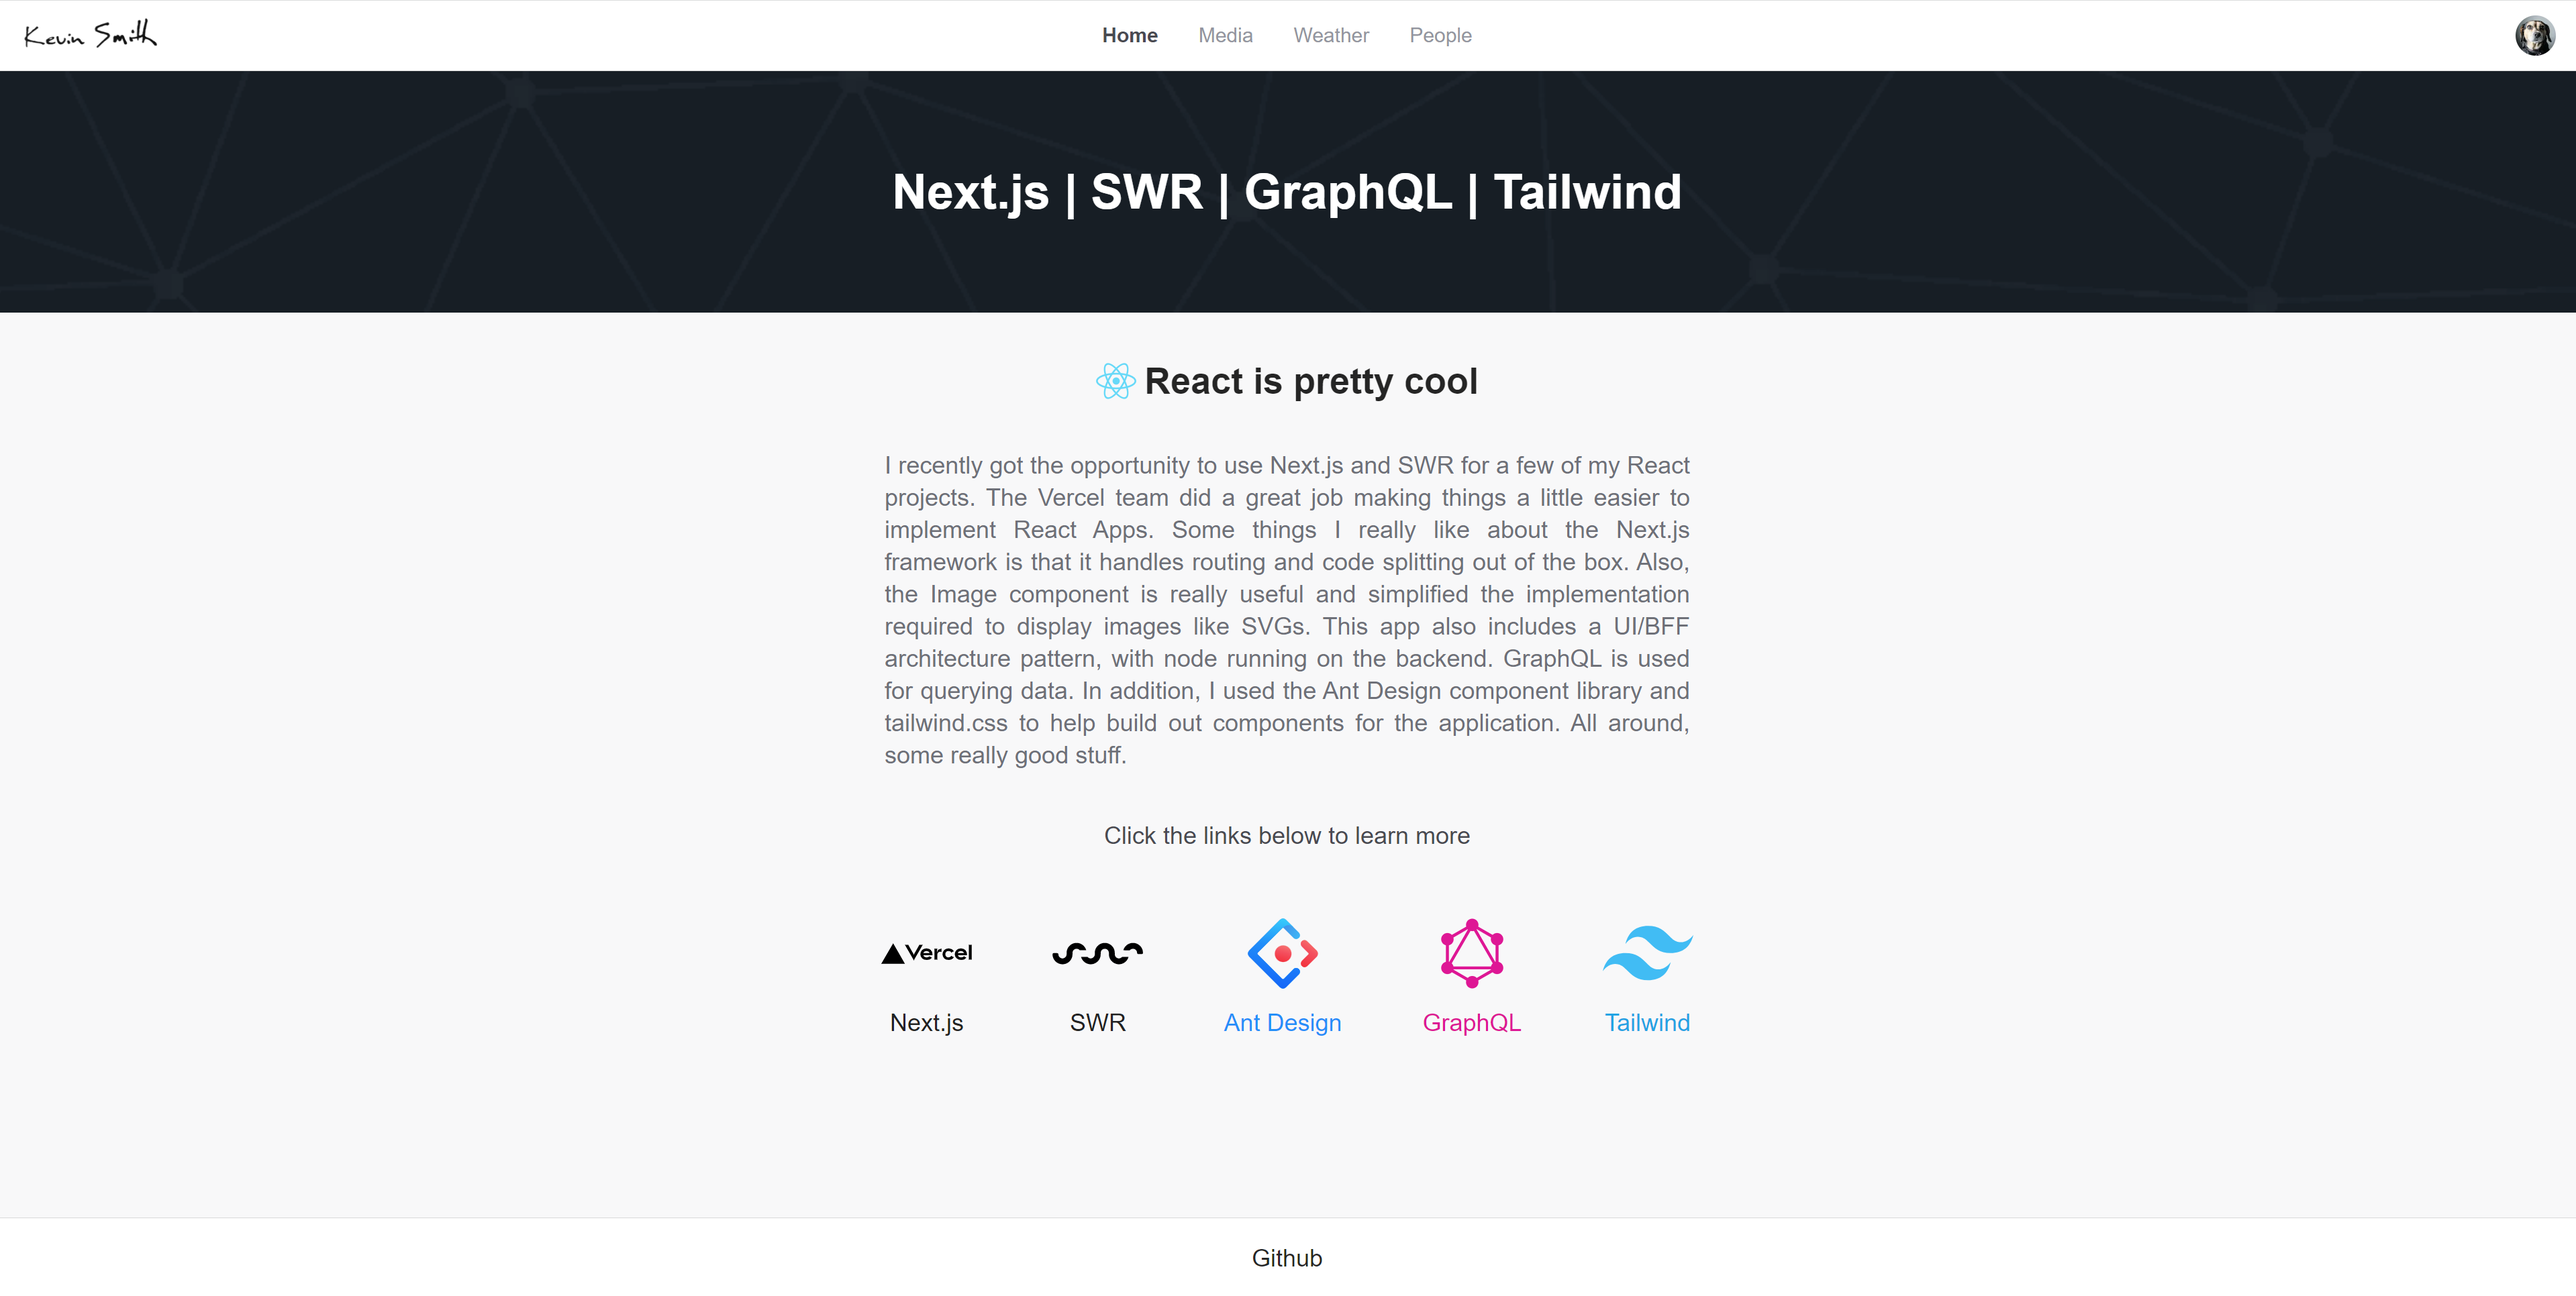
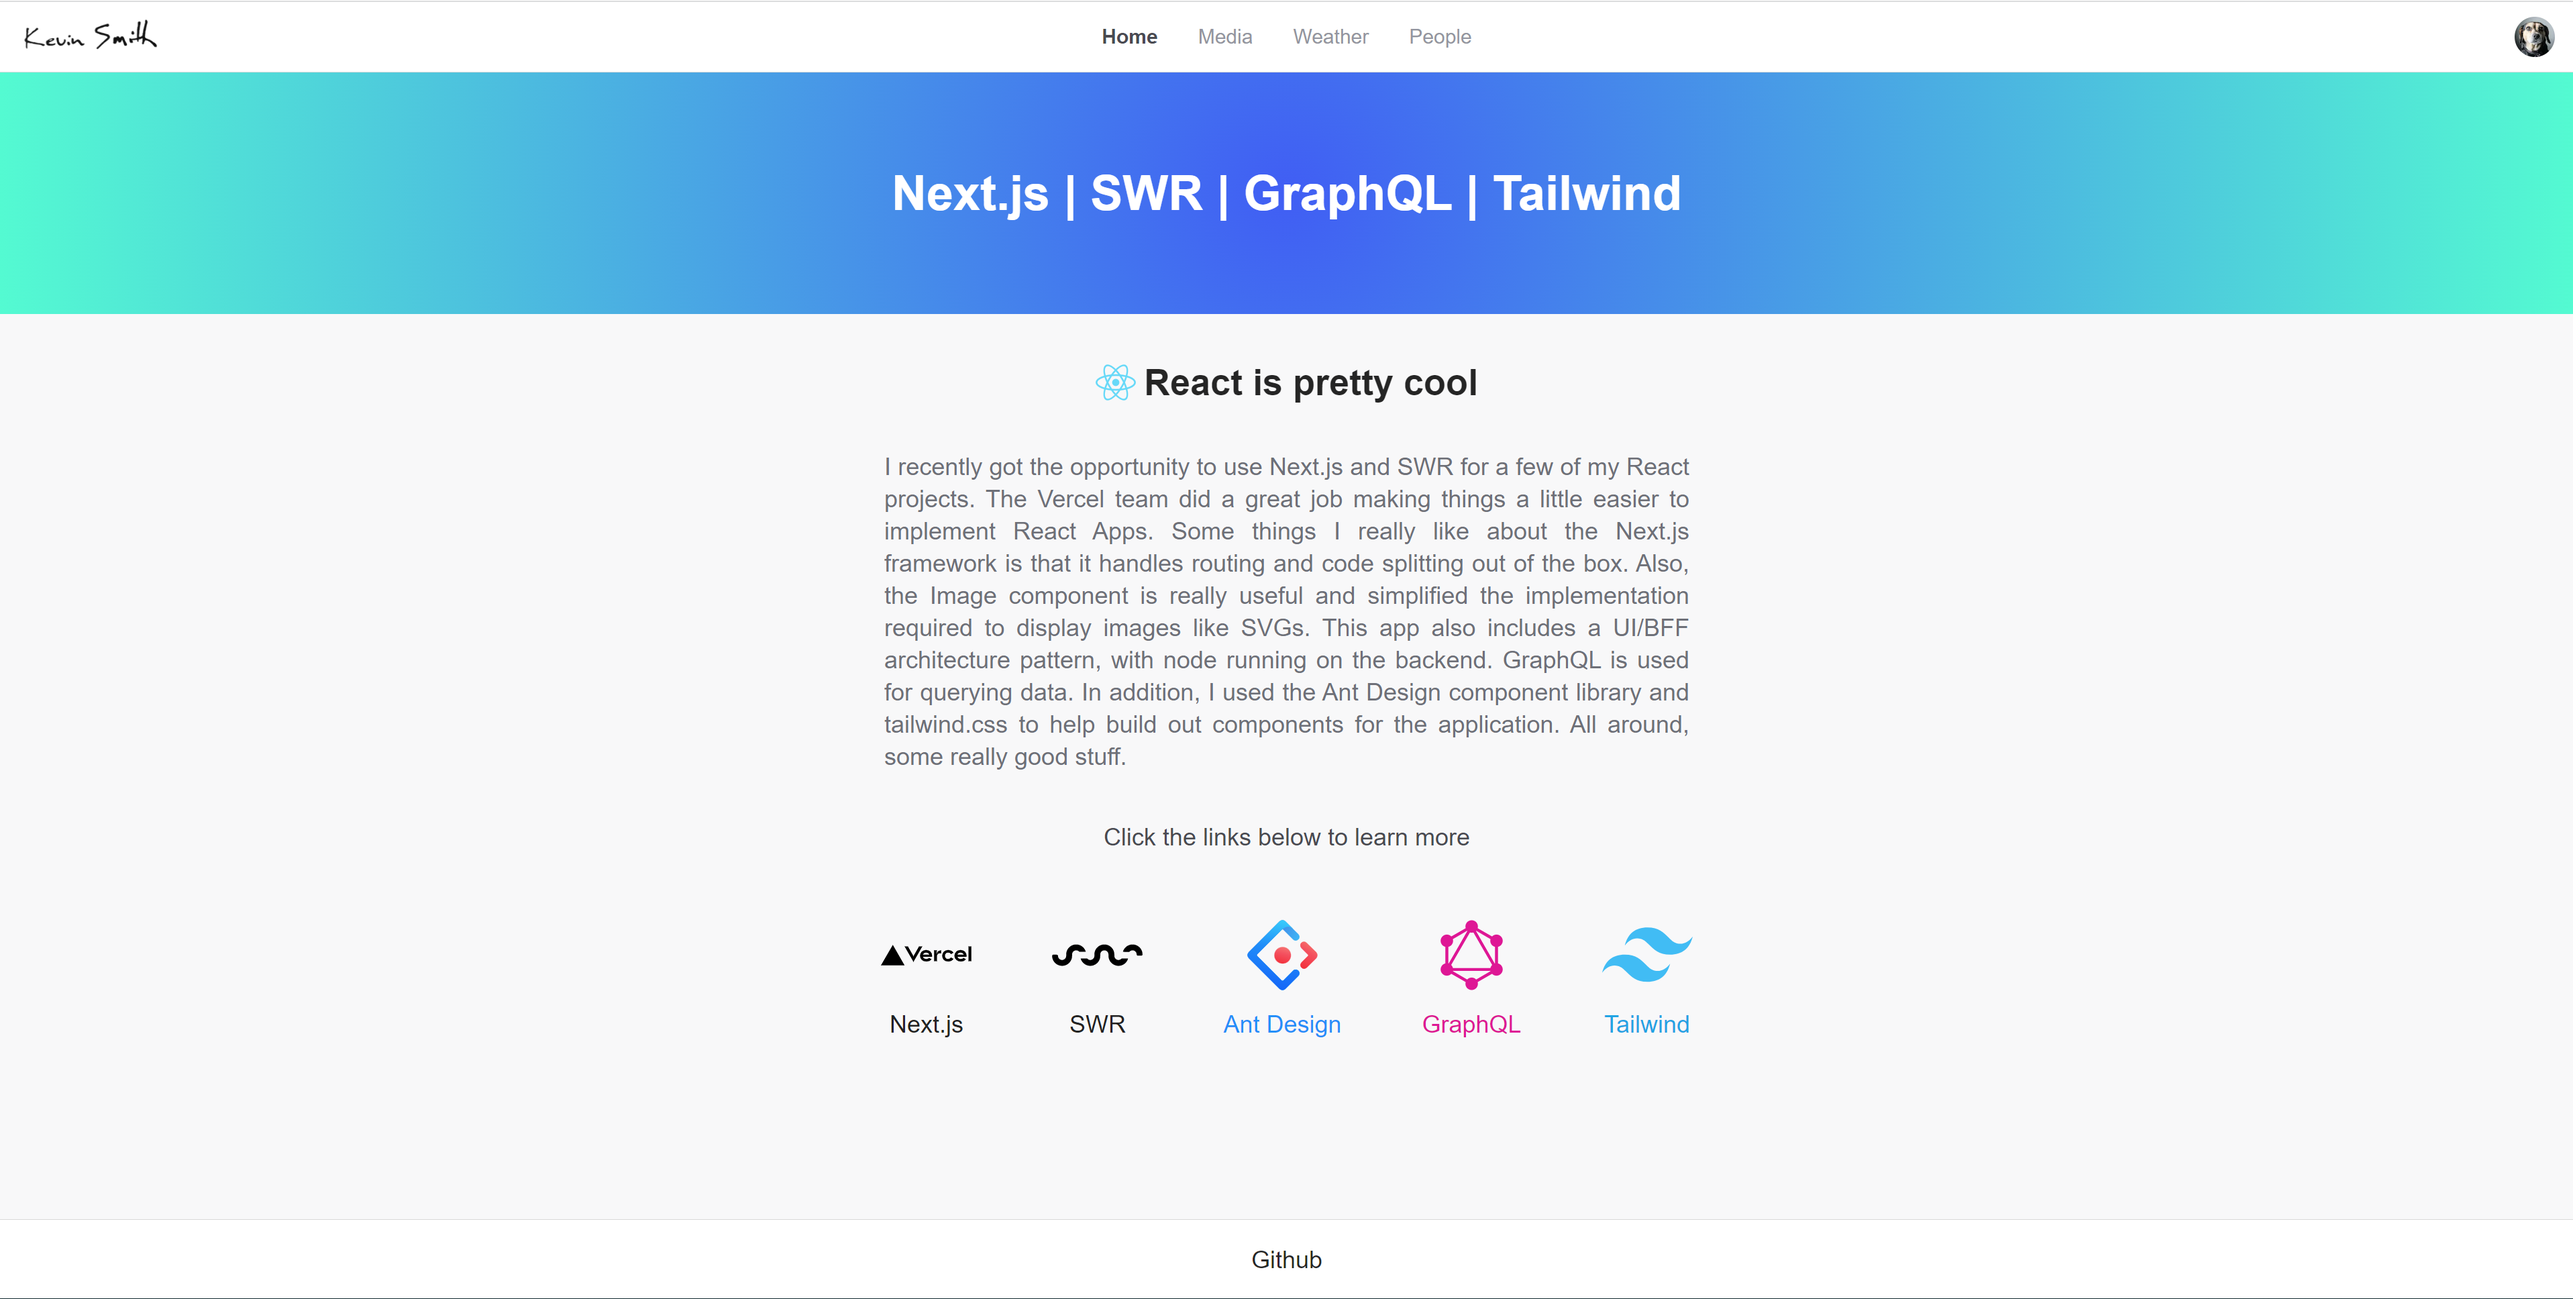
updated hero background styling, updated app-screenshot for readme

diff --git a/components/common/display/layout/page.tsx b/components/common/display/layout/page.tsx
@@ -1,8 +1,6 @@
 import React, { FC, ReactNode } from 'react';
 import { SearchInput } from 'components/common/controls/searchInput';
 import { ROUTES, STRINGS } from 'constants/global';
-import Image from 'next/image';
-import BackgroundImage from 'public/web.png';
 
 interface PageProps {
   title: ReactNode;
@@ -37,8 +35,7 @@ export const Page: FC<PageProps> = ({ title, route, children, showHero = false }
     <div>
       {showHero && (
         <div className='hero-container'>
-          <Image src={BackgroundImage} className='hero-image' alt='Hero' layout='fill' priority id='site-logo' />
-          <div className='hero'>Next.js | SWR | GraphQL | Tailwind</div>
+          <div>Next.js | SWR | GraphQL | Tailwind</div>
         </div>
       )}
       <main className='m-6 h-full' id={pageTestIds.main}>

diff --git a/styles/components/hero.css b/styles/components/hero.css
@@ -1,19 +1,8 @@
 @layer components {
   .hero-container {
+    background: radial-gradient(circle, rgba(63, 94, 251, 1) 0%, rgba(70, 252, 207, 1) 100%);
     height: 15rem;
-    width: 100%;
-    position: relative;
-    background-color: #171e26;
-  }
-
-  .hero {
-    height: 15rem;
-    width: 100%;
     @apply content-center;
-    @apply text-5xl font-bold text-white absolute;
-  }
-
-  .hero-image {
-    object-fit: cover;
+    @apply text-5xl font-bold text-white;
   }
 }
